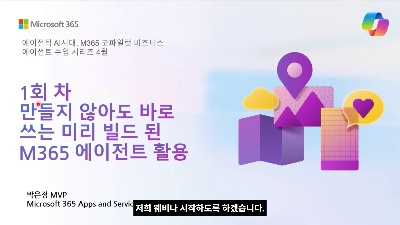
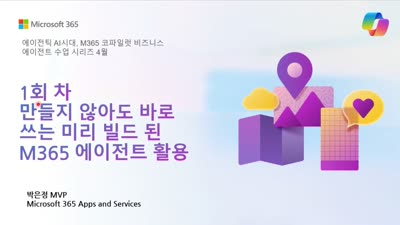
메인 수정 및 다시보기 작업 완료

diff --git a/watchagain.html b/watchagain.html
@@ -605,7 +605,7 @@
             </div>
           </div>
           <div class="p-4">
-            <h3 class="font-bold text-on-surface mb-2">1회차 만들지 않아도 바로 쓰는 미리 빌드된 M365 에이전트 활용</h3>
+            <h3 class="font-bold text-on-surface mb-2">만들지 않아도 바로 쓰는 미리 빌드된 M365 에이전트 활용</h3>
             <p class="text-sm text-on-surface-variant mb-3">4월 8일 (수) 4시~5시</p>
           </div>
         </a>
@@ -636,10 +636,10 @@
           </div>
         </a>
         <!-- SPF Video 4 -->
-        <div class="bg-white rounded-lg overflow-hidden shadow-sm hover:shadow-md transition-all border border-outline-variant/10">
+        <a href="https://megazonecloudwebinar.blob.core.windows.net/spfwebinar/SPF%20%EC%9B%A8%EB%B9%84%EB%82%98%204%ED%9A%8C%EC%B0%A8%20%5B%EB%A9%94%EA%B0%80%EC%A1%B4%ED%81%B4%EB%9D%BC%EC%9A%B0%EB%93%9C%5D%20%EC%97%90%EC%9D%B4%EC%A0%84%ED%8B%B1%20AI%EC%8B%9C%EB%8C%80%2C%20M365%20%EC%BD%94%ED%8C%8C%EC%9D%BC%EB%9F%BF%20%EB%B9%84%EC%A6%88%EB%8B%88%EC%8A%A4%20%EC%97%90%EC%9D%B4%EC%A0%84%ED%8A%B8%20%EC%88%98%EC%97%85%20%EC%8B%9C%EB%A6%AC%EC%A6%88%204%EC%9B%94%204%ED%9A%8C%EC%B0%A8-20260429_065408UTC-Meeting%20Recording.mp4?sp=r&st=2026-04-30T00:31:50Z&se=2027-04-30T08:46:50Z&spr=https&sv=2025-11-05&sr=b&sig=KkBN6iddyWgeSE4L0xZP4xB195c0bzDciTcui0U7k0s%3D" target="_blank" rel="noopener noreferrer" class="bg-white rounded-lg overflow-hidden shadow-sm hover:shadow-md transition-all border border-outline-variant/10 block group">
           <div class="aspect-video bg-slate-100 flex items-center justify-center relative overflow-hidden bg-gradient-to-br from-primary/5 to-primary/10">
-            <img src="https://via.placeholder.com/400x225?text=SPF+Webinar" alt="SPF Webinar" class="w-full h-full object-cover"/>
-            <div class="absolute inset-0 bg-black/30 transition-colors flex items-center justify-center">
+            <img src="spf_webinar_4_thumb.jpg" alt="SPF 웨비나 4회차" class="w-full h-full object-cover group-hover:scale-105 transition-transform duration-300" onerror="this.src='https://via.placeholder.com/400x225?text=SPF+Webinar+4'"/>
+            <div class="absolute inset-0 bg-black/20 group-hover:bg-black/30 transition-colors flex items-center justify-center">
               <span class="material-symbols-outlined text-white text-5xl">play_circle</span>
             </div>
           </div>
@@ -647,7 +647,7 @@
             <h3 class="font-bold text-on-surface mb-2">판단·정리·보고를 대신하는 에이전트 활용</h3>
             <p class="text-sm text-on-surface-variant mb-3">4월 29일 (수) 4시~5시</p>
           </div>
-        </div>
+        </a>
         <!-- SPF Video 5 -->
         <div class="bg-white rounded-lg overflow-hidden shadow-sm hover:shadow-md transition-all border border-outline-variant/10">
           <div class="aspect-video bg-slate-100 flex items-center justify-center relative overflow-hidden bg-gradient-to-br from-primary/5 to-primary/10">
@@ -688,45 +688,57 @@
           </div>
         </a>
         <!-- Power Platform Video 2 -->
-        <div class="bg-white rounded-lg overflow-hidden shadow-sm hover:shadow-md transition-all border border-outline-variant/10">
-          <div class="aspect-video bg-slate-100 flex items-center justify-center">
-            <img src="https://via.placeholder.com/400x225?text=Power+Platform" alt="Power Platform" class="w-full h-full object-cover"/>
+        <a href="https://megazonecloudwebinar.blob.core.windows.net/powerplatformwebinar/%ED%8C%8C%EC%9B%8C%ED%94%8C%EB%9E%AB%ED%8F%BC%20%EC%9B%A8%EB%B9%84%EB%82%98%202%EC%A3%BC%EC%B0%A8%20%5B%EB%A9%94%EA%B0%80%EC%A1%B4%ED%81%B4%EB%9D%BC%EC%9A%B0%EB%93%9C%5D%20%EC%97%90%EC%9D%B4%EC%A0%84%ED%8B%B1%20AI%EC%8B%9C%EB%8C%80%2C%20M365%20%ED%8C%8C%EC%9B%8C%ED%94%8C%EB%9E%AB%ED%8F%BC%EC%9C%BC%EB%A1%9C%20%ED%82%A5%EC%9D%84%20%EB%8D%94%ED%95%9C%EB%8B%A4!%20%ED%8C%8C%EC%9B%8C%ED%94%8C%EB%9E%AB%ED%8F%BC%20%EB%A7%88%EC%8A%A4%ED%84%B0%20%EC%9B%A8%EB%B9%84%EB%82%98%202%EC%A3%BC%EC%B0%A8-20260325_054706UTC-Meeting%20Recording.mp4?sp=r&st=2026-04-29T23:43:17Z&se=2027-04-30T07:58:17Z&spr=https&sv=2024-11-04&sr=b&sig=8%2F9vb6JO8lLmbgha1L4B5eJGbkKTLp7unIWUs4hC%2Fnw%3D" target="_blank" rel="noopener noreferrer" class="bg-white rounded-lg overflow-hidden shadow-sm hover:shadow-md transition-all border border-outline-variant/10 block group">
+          <div class="aspect-video bg-slate-100 flex items-center justify-center relative overflow-hidden bg-gradient-to-br from-primary/5 to-primary/10">
+            <img src="powerplatform_2_thumb.jpg" alt="Power Platform Webinar 2" class="w-full h-full object-cover group-hover:scale-105 transition-transform duration-300" onerror="this.src='https://via.placeholder.com/400x225?text=Power+Platform+2'"/>
+            <div class="absolute inset-0 bg-black/20 group-hover:bg-black/30 transition-colors flex items-center justify-center">
+              <span class="material-symbols-outlined text-white text-5xl">play_circle</span>
+            </div>
           </div>
           <div class="p-4">
             <h3 class="font-bold text-on-surface mb-2">Copilot Studio — 멀티 에이전트 구성</h3>
             <p class="text-sm text-on-surface-variant mb-3">3월 25일 (수) 오후 3시~4시</p>
           </div>
-        </div>
+        </a>
         <!-- Power Platform Video 3 -->
-        <div class="bg-white rounded-lg overflow-hidden shadow-sm hover:shadow-md transition-all border border-outline-variant/10">
-          <div class="aspect-video bg-slate-100 flex items-center justify-center">
-            <img src="https://via.placeholder.com/400x225?text=Power+Platform" alt="Power Platform" class="w-full h-full object-cover"/>
+        <a href="https://megazonecloudwebinar.blob.core.windows.net/powerplatformwebinar/%ED%8C%8C%EC%9B%8C%ED%94%8C%EB%9E%AB%ED%8F%BC%20%EC%9B%A8%EB%B9%84%EB%82%98%203%EC%A3%BC%EC%B0%A8%20%5B%EB%A9%94%EA%B0%80%EC%A1%B4%ED%81%B4%EB%9D%BC%EC%9A%B0%EB%93%9C%5D%20%EC%97%90%EC%9D%B4%EC%A0%84%ED%8B%B1%20AI%EC%8B%9C%EB%8C%80%2C%20M365%20%ED%8C%8C%EC%9B%8C%ED%94%8C%EB%9E%AB%ED%8F%BC%EC%9C%BC%EB%A1%9C%20%ED%82%A5%EC%9D%84%20%EB%8D%94%ED%95%9C%EB%8B%A4!%20%ED%8C%8C%EC%9B%8C%ED%94%8C%EB%9E%AB%ED%8F%BC%20%EB%A7%88%EC%8A%A4%ED%84%B0%20%EC%9B%A8%EB%B9%84%EB%82%98%203%EC%A3%BC%EC%B0%A8-20260401_043847UTC-Meeting%20Recording.mp4?sp=r&st=2026-04-29T23:51:15Z&se=2027-04-30T08:06:15Z&spr=https&sv=2024-11-04&sr=b&sig=0c%2FgE%2BaPjB2mSTSKzHyqk6LZ1XnyjI%2FekfwrJg3pOB8%3D" target="_blank" rel="noopener noreferrer" class="bg-white rounded-lg overflow-hidden shadow-sm hover:shadow-md transition-all border border-outline-variant/10 block group">
+          <div class="aspect-video bg-slate-100 flex items-center justify-center relative overflow-hidden bg-gradient-to-br from-primary/5 to-primary/10">
+            <img src="powerplatform_3_thumb.jpg" alt="Power Platform Webinar 3" class="w-full h-full object-cover group-hover:scale-105 transition-transform duration-300" onerror="this.src='https://via.placeholder.com/400x225?text=Power+Platform+3'"/>
+            <div class="absolute inset-0 bg-black/20 group-hover:bg-black/30 transition-colors flex items-center justify-center">
+              <span class="material-symbols-outlined text-white text-5xl">play_circle</span>
+            </div>
           </div>
           <div class="p-4">
             <h3 class="font-bold text-on-surface mb-2">Power BI — MCP 서버로 AI 대시보드 만들기</h3>
             <p class="text-sm text-on-surface-variant mb-3">4월 1일 (수) 오후 2시~3시</p>
           </div>
-        </div>
+        </a>
         <!-- Power Platform Video 4 -->
-        <div class="bg-white rounded-lg overflow-hidden shadow-sm hover:shadow-md transition-all border border-outline-variant/10">
-          <div class="aspect-video bg-slate-100 flex items-center justify-center">
-            <img src="https://via.placeholder.com/400x225?text=Power+Platform" alt="Power Platform" class="w-full h-full object-cover"/>
+        <a href="https://megazonecloudwebinar.blob.core.windows.net/powerplatformwebinar/%ED%8C%8C%EC%9B%8C%ED%94%8C%EB%9E%AB%ED%8F%BC%20%EC%9B%A8%EB%B9%84%EB%82%98%204%EC%A3%BC%EC%B0%A8%20%5B%EB%A9%94%EA%B0%80%EC%A1%B4%ED%81%B4%EB%9D%BC%EC%9A%B0%EB%93%9C%5D%20%EC%97%90%EC%9D%B4%EC%A0%84%ED%8B%B1%20AI%EC%8B%9C%EB%8C%80%2C%20M365%20%ED%8C%8C%EC%9B%8C%ED%94%8C%EB%9E%AB%ED%8F%BC%EC%9C%BC%EB%A1%9C%20%ED%82%A5%EC%9D%84%20%EB%8D%94%ED%95%9C%EB%8B%A4!%20%ED%8C%8C%EC%9B%8C%ED%94%8C%EB%9E%AB%ED%8F%BC%20%EB%A7%88%EC%8A%A4%ED%84%B0%20%EC%9B%A8%EB%B9%84%EB%82%98%204%EC%A3%BC%EC%B0%A8-20260408_043223UTC-Meeting%20Recording%201.mp4?sp=r&st=2026-04-29T23:52:54Z&se=2027-04-30T08:07:54Z&spr=https&sv=2024-11-04&sr=b&sig=rTXTEsSLHxath%2BpWpqud8WBceK6yJjPRWC9ujypDSC8%3D" target="_blank" rel="noopener noreferrer" class="bg-white rounded-lg overflow-hidden shadow-sm hover:shadow-md transition-all border border-outline-variant/10 block group">
+          <div class="aspect-video bg-slate-100 flex items-center justify-center relative overflow-hidden bg-gradient-to-br from-primary/5 to-primary/10">
+            <img src="powerplatform_4_thumb.jpg" alt="Power Platform Webinar 4" class="w-full h-full object-cover group-hover:scale-105 transition-transform duration-300" onerror="this.src='https://via.placeholder.com/400x225?text=Power+Platform+4'"/>
+            <div class="absolute inset-0 bg-black/20 group-hover:bg-black/30 transition-colors flex items-center justify-center">
+              <span class="material-symbols-outlined text-white text-5xl">play_circle</span>
+            </div>
           </div>
           <div class="p-4">
             <h3 class="font-bold text-on-surface mb-2">Power Apps — 앱 만드는 4가지 방법</h3>
             <p class="text-sm text-on-surface-variant mb-3">4월 8일 (수) 오후 2시~3시</p>
           </div>
-        </div>
+        </a>
         <!-- Power Platform Video 5 -->
-        <div class="bg-white rounded-lg overflow-hidden shadow-sm hover:shadow-md transition-all border border-outline-variant/10">
-          <div class="aspect-video bg-slate-100 flex items-center justify-center">
-            <img src="https://via.placeholder.com/400x225?text=Power+Platform" alt="Power Platform" class="w-full h-full object-cover"/>
+        <a href="https://megazonecloudwebinar.blob.core.windows.net/powerplatformwebinar/%ED%8C%8C%EC%9B%8C%ED%94%8C%EB%9E%AB%ED%8F%BC%20%EC%9B%A8%EB%B9%84%EB%82%98%205%EC%A3%BC%EC%B0%A8%20%5B%EB%A9%94%EA%B0%80%EC%A1%B4%ED%81%B4%EB%9D%BC%EC%9A%B0%EB%93%9C%5D%20%EC%97%90%EC%9D%B4%EC%A0%84%ED%8B%B1%20AI%EC%8B%9C%EB%8C%80%2C%20M365%20%ED%8C%8C%EC%9B%8C%ED%94%8C%EB%9E%AB%ED%8F%BC%EC%9C%BC%EB%A1%9C%20%ED%82%A5%EC%9D%84%20%EB%8D%94%ED%95%9C%EB%8B%A4!%20%ED%8C%8C%EC%9B%8C%ED%94%8C%EB%9E%AB%ED%8F%BC%20%EB%A7%88%EC%8A%A4%ED%84%B0%20%EC%9B%A8%EB%B9%84%EB%82%98%205%EC%A3%BC%EC%B0%A8-20260415_045536UTC-Meeting%20Recording%201.mp4?sp=r&st=2026-04-29T23:55:26Z&se=2027-04-30T08:10:26Z&spr=https&sv=2024-11-04&sr=b&sig=dqmavZbnNhgB%2FjScEZI5AEzVVjB3JGZd%2F1aZAP4CaV8%3D" target="_blank" rel="noopener noreferrer" class="bg-white rounded-lg overflow-hidden shadow-sm hover:shadow-md transition-all border border-outline-variant/10 block group">
+          <div class="aspect-video bg-slate-100 flex items-center justify-center relative overflow-hidden bg-gradient-to-br from-primary/5 to-primary/10">
+            <img src="powerplatform_5_thumb.jpg" alt="Power Platform Webinar 5" class="w-full h-full object-cover group-hover:scale-105 transition-transform duration-300" onerror="this.src='https://via.placeholder.com/400x225?text=Power+Platform+5'"/>
+            <div class="absolute inset-0 bg-black/20 group-hover:bg-black/30 transition-colors flex items-center justify-center">
+              <span class="material-symbols-outlined text-white text-5xl">play_circle</span>
+            </div>
           </div>
           <div class="p-4">
             <h3 class="font-bold text-on-surface mb-2">Power Automate — 입금결의서 자동 생성</h3>
             <p class="text-sm text-on-surface-variant mb-3">4월 15일 (수) 오후 2시~3시</p>
           </div>
-        </div>
+        </a>
       </div>
     </div>
   </section>
@@ -741,65 +753,83 @@
       <!-- Copilot 비디오 카드 -->
       <div class="grid grid-cols-1 md:grid-cols-2 lg:grid-cols-3 gap-6">
         <!-- Copilot Video 1 -->
-        <div class="bg-white rounded-lg overflow-hidden shadow-sm hover:shadow-md transition-all border border-outline-variant/10">
-          <div class="aspect-video bg-slate-100 flex items-center justify-center">
-            <img src="https://via.placeholder.com/400x225?text=Copilot" alt="Copilot Webinar" class="w-full h-full object-cover"/>
+        <a href="https://megazonecloudwebinar.blob.core.windows.net/copilotwebinar/%EC%BD%94%ED%8C%8C%EC%9D%BC%EB%9F%BF%20%EC%9B%A8%EB%B9%84%EB%82%98%201%ED%9A%8C%EC%B0%A8%20%5B%EB%A9%94%EA%B0%80%EC%A1%B4%ED%81%B4%EB%9D%BC%EC%9A%B0%EB%93%9C%5D%20%EC%97%90%EC%9D%B4%EC%A0%84%ED%8B%B1%20AI%EC%8B%9C%EB%8C%80%2C%20M365%20%EC%BD%94%ED%8C%8C%EC%9D%BC%EB%9F%BF%20%EB%B9%84%EC%A6%88%EB%8B%88%EC%8A%A4%20%EC%97%90%EC%9D%B4%EC%A0%84%ED%8A%B8%20%EB%A7%8C%EB%93%A4%EA%B8%B0%203%EC%9B%94%20%EC%B2%AB%EB%B2%88%EC%A7%B8%20%EC%88%98%EC%97%85-20260309_070113UTC-Meeting%20Recording%201.mp4?sp=r&st=2026-04-29T23:59:49Z&se=2027-04-30T08:14:49Z&spr=https&sv=2024-11-04&sr=b&sig=0Me%2FvD6gmGZPxz%2BVG1Kat2xSPMYVX79uMTlYFzKs3w0%3D" target="_blank" rel="noopener noreferrer" class="bg-white rounded-lg overflow-hidden shadow-sm hover:shadow-md transition-all border border-outline-variant/10 block group">
+          <div class="aspect-video bg-slate-100 flex items-center justify-center relative overflow-hidden bg-gradient-to-br from-primary/5 to-primary/10">
+            <img src="copilot_1_thumb.jpg" alt="Copilot Webinar 1" class="w-full h-full object-cover group-hover:scale-105 transition-transform duration-300" onerror="this.src='https://via.placeholder.com/400x225?text=Copilot+1'"/>
+            <div class="absolute inset-0 bg-black/20 group-hover:bg-black/30 transition-colors flex items-center justify-center">
+              <span class="material-symbols-outlined text-white text-5xl">play_circle</span>
+            </div>
           </div>
           <div class="p-4">
             <h3 class="font-bold text-on-surface mb-2">Copilot Chat, 그냥 질문하는 도구가 아닙니다</h3>
             <p class="text-sm text-on-surface-variant mb-3">3월 9일 (월) 오후 4시~5시</p>
           </div>
-        </div>
+        </a>
         <!-- Copilot Video 2 -->
-        <div class="bg-white rounded-lg overflow-hidden shadow-sm hover:shadow-md transition-all border border-outline-variant/10">
-          <div class="aspect-video bg-slate-100 flex items-center justify-center">
-            <img src="https://via.placeholder.com/400x225?text=Copilot" alt="Copilot Webinar" class="w-full h-full object-cover"/>
+        <a href="https://megazonecloudwebinar.blob.core.windows.net/copilotwebinar/%EC%BD%94%ED%8C%8C%EC%9D%BC%EB%9F%BF%20%EC%9B%A8%EB%B9%84%EB%82%98%202%ED%9A%8C%EC%B0%A8%20%5B%EB%A9%94%EA%B0%80%EC%A1%B4%ED%81%B4%EB%9D%BC%EC%9A%B0%EB%93%9C%5D%20%EC%97%90%EC%9D%B4%EC%A0%84%ED%8B%B1%20AI%EC%8B%9C%EB%8C%80%2C%20M365%20%EC%BD%94%ED%8C%8C%EC%9D%BC%EB%9F%BF%20%EB%B9%84%EC%A6%88%EB%8B%88%EC%8A%A4%20%EC%97%90%EC%9D%B4%EC%A0%84%ED%8A%B8%20%EC%88%98%EC%97%85%20%EC%8B%9C%EB%A6%AC%EC%A6%88%202%EB%B2%88%EC%A7%B8-20260311_070002UTC-Meeting%20Recording%201.mp4?sp=r&st=2026-04-30T00:00:39Z&se=2027-04-30T08:15:39Z&spr=https&sv=2024-11-04&sr=b&sig=UfzXOBHR0Pw%2FYyUk63KVPIfHuAmaDngfQCpLlWmc6v4%3D" target="_blank" rel="noopener noreferrer" class="bg-white rounded-lg overflow-hidden shadow-sm hover:shadow-md transition-all border border-outline-variant/10 block group">
+          <div class="aspect-video bg-slate-100 flex items-center justify-center relative overflow-hidden bg-gradient-to-br from-primary/5 to-primary/10">
+            <img src="copilot_2_thumb.jpg" alt="Copilot Webinar 2" class="w-full h-full object-cover group-hover:scale-105 transition-transform duration-300" onerror="this.src='https://via.placeholder.com/400x225?text=Copilot+2'"/>
+            <div class="absolute inset-0 bg-black/20 group-hover:bg-black/30 transition-colors flex items-center justify-center">
+              <span class="material-symbols-outlined text-white text-5xl">play_circle</span>
+            </div>
           </div>
           <div class="p-4">
             <h3 class="font-bold text-on-surface mb-2">프롬프트 하나로 만드는 나만의 에이전트</h3>
             <p class="text-sm text-on-surface-variant mb-3">3월 11일 (수) 오후 4시~5시</p>
           </div>
-        </div>
+        </a>
         <!-- Copilot Video 3 -->
-        <div class="bg-white rounded-lg overflow-hidden shadow-sm hover:shadow-md transition-all border border-outline-variant/10">
-          <div class="aspect-video bg-slate-100 flex items-center justify-center">
-            <img src="https://via.placeholder.com/400x225?text=Copilot" alt="Copilot Webinar" class="w-full h-full object-cover"/>
+        <a href="https://megazonecloudwebinar.blob.core.windows.net/copilotwebinar/%EC%BD%94%ED%8C%8C%EC%9D%BC%EB%9F%BF%20%EC%9B%A8%EB%B9%84%EB%82%98%203%ED%9A%8C%EC%B0%A8%20%5B%EB%A9%94%EA%B0%80%EC%A1%B4%ED%81%B4%EB%9D%BC%EC%9A%B0%EB%93%9C%5D%20%EC%97%90%EC%9D%B4%EC%A0%84%ED%8B%B1%20AI%EC%8B%9C%EB%8C%80%2C%20M365%20%EC%BD%94%ED%8C%8C%EC%9D%BC%EB%9F%BF%20%EB%B9%84%EC%A6%88%EB%8B%88%EC%8A%A4%20%EC%97%90%EC%9D%B4%EC%A0%84%ED%8A%B8%20%EC%88%98%EC%97%85%20%EC%8B%9C%EB%A6%AC%EC%A6%88%203%EB%B2%88%EC%A7%B8-20260313_065653UTC-Meeting%20Recording%201.mp4?sp=r&st=2026-04-30T00:03:35Z&se=2027-04-30T08:18:35Z&spr=https&sv=2024-11-04&sr=b&sig=GOTznl4BDTkAWEw7isb%2BSWVyHPvbAMu5AQ%2FV1b%2BPxd0%3D" target="_blank" rel="noopener noreferrer" class="bg-white rounded-lg overflow-hidden shadow-sm hover:shadow-md transition-all border border-outline-variant/10 block group">
+          <div class="aspect-video bg-slate-100 flex items-center justify-center relative overflow-hidden bg-gradient-to-br from-primary/5 to-primary/10">
+            <img src="copilot_3_thumb.jpg" alt="Copilot Webinar 3" class="w-full h-full object-cover group-hover:scale-105 transition-transform duration-300" onerror="this.src='https://via.placeholder.com/400x225?text=Copilot+3'"/>
+            <div class="absolute inset-0 bg-black/20 group-hover:bg-black/30 transition-colors flex items-center justify-center">
+              <span class="material-symbols-outlined text-white text-5xl">play_circle</span>
+            </div>
           </div>
           <div class="p-4">
             <h3 class="font-bold text-on-surface mb-2">문서를 아는 에이전트 만들기</h3>
             <p class="text-sm text-on-surface-variant mb-3">3월 13일 (금) 오후 4시~5시</p>
           </div>
-        </div>
+        </a>
         <!-- Copilot Video 4 -->
-        <div class="bg-white rounded-lg overflow-hidden shadow-sm hover:shadow-md transition-all border border-outline-variant/10">
-          <div class="aspect-video bg-slate-100 flex items-center justify-center">
-            <img src="https://via.placeholder.com/400x225?text=Copilot" alt="Copilot Webinar" class="w-full h-full object-cover"/>
+        <a href="https://megazonecloudwebinar.blob.core.windows.net/copilotwebinar/%EC%BD%94%ED%8C%8C%EC%9D%BC%EB%9F%BF%20%EC%9B%A8%EB%B9%84%EB%82%98%204%ED%9A%8C%EC%B0%A8%20%5B%EB%A9%94%EA%B0%80%EC%A1%B4%ED%81%B4%EB%9D%BC%EC%9A%B0%EB%93%9C%5D%20%EC%97%90%EC%9D%B4%EC%A0%84%ED%8B%B1%20AI%EC%8B%9C%EB%8C%80%2C%20M365%20%EC%BD%94%ED%8C%8C%EC%9D%BC%EB%9F%BF%20%EB%B9%84%EC%A6%88%EB%8B%88%EC%8A%A4%20%EC%97%90%EC%9D%B4%EC%A0%84%ED%8A%B8%20%EC%88%98%EC%97%85%20%EC%8B%9C%EB%A6%AC%EC%A6%88%204%EB%B2%88%EC%A7%B8-20260316_002811UTC-Meeting%20Recording%201.mp4?sp=r&st=2026-04-30T00:04:49Z&se=2027-04-30T08:19:49Z&spr=https&sv=2024-11-04&sr=b&sig=7HXEEL2XeFw%2BMv0PzYi7iZUiDMh4xhJbUKFlSPmzkGM%3D" target="_blank" rel="noopener noreferrer" class="bg-white rounded-lg overflow-hidden shadow-sm hover:shadow-md transition-all border border-outline-variant/10 block group">
+          <div class="aspect-video bg-slate-100 flex items-center justify-center relative overflow-hidden bg-gradient-to-br from-primary/5 to-primary/10">
+            <img src="copilot_4_thumb.jpg" alt="Copilot Webinar 4" class="w-full h-full object-cover group-hover:scale-105 transition-transform duration-300" onerror="this.src='https://via.placeholder.com/400x225?text=Copilot+4'"/>
+            <div class="absolute inset-0 bg-black/20 group-hover:bg-black/30 transition-colors flex items-center justify-center">
+              <span class="material-symbols-outlined text-white text-5xl">play_circle</span>
+            </div>
           </div>
           <div class="p-4">
             <h3 class="font-bold text-on-surface mb-2">직무별 Copilot 에이전트 시나리오</h3>
             <p class="text-sm text-on-surface-variant mb-3">3월 16일 (월) 오전 9시30분~10시30분</p>
           </div>
-        </div>
+        </a>
         <!-- Copilot Video 5 -->
-        <div class="bg-white rounded-lg overflow-hidden shadow-sm hover:shadow-md transition-all border border-outline-variant/10">
-          <div class="aspect-video bg-slate-100 flex items-center justify-center">
-            <img src="https://via.placeholder.com/400x225?text=Copilot" alt="Copilot Webinar" class="w-full h-full object-cover"/>
+        <a href="https://megazonecloudwebinar.blob.core.windows.net/copilotwebinar/%EC%BD%94%ED%8C%8C%EC%9D%BC%EB%9F%BF%20%EC%9B%A8%EB%B9%84%EB%82%98%205%ED%9A%8C%EC%B0%A8%20%5B%EB%A9%94%EA%B0%80%EC%A1%B4%ED%81%B4%EB%9D%BC%EC%9A%B0%EB%93%9C%5D%20%EC%97%90%EC%9D%B4%EC%A0%84%ED%8B%B1%20AI%EC%8B%9C%EB%8C%80%2C%20M365%20%EC%BD%94%ED%8C%8C%EC%9D%BC%EB%9F%BF%20%EB%B9%84%EC%A6%88%EB%8B%88%EC%8A%A4%20%EC%97%90%EC%9D%B4%EC%A0%84%ED%8A%B8%20%EC%88%98%EC%97%85%20%EC%8B%9C%EB%A6%AC%EC%A6%88%205%EB%B2%88%EC%A7%B8-20260323_000905UTC-Meeting%20Recording%201.mp4?sp=r&st=2026-04-30T00:05:33Z&se=2027-04-30T08:20:33Z&spr=https&sv=2024-11-04&sr=b&sig=WEBFQpywL6TAZiE8sNtC6YiRNtune6wLfypcCoM4RlE%3D" target="_blank" rel="noopener noreferrer" class="bg-white rounded-lg overflow-hidden shadow-sm hover:shadow-md transition-all border border-outline-variant/10 block group">
+          <div class="aspect-video bg-slate-100 flex items-center justify-center relative overflow-hidden bg-gradient-to-br from-primary/5 to-primary/10">
+            <img src="copilot_5_thumb.jpg" alt="Copilot Webinar 5" class="w-full h-full object-cover group-hover:scale-105 transition-transform duration-300" onerror="this.src='https://via.placeholder.com/400x225?text=Copilot+5'"/>
+            <div class="absolute inset-0 bg-black/20 group-hover:bg-black/30 transition-colors flex items-center justify-center">
+              <span class="material-symbols-outlined text-white text-5xl">play_circle</span>
+            </div>
           </div>
           <div class="p-4">
             <h3 class="font-bold text-on-surface mb-2">오늘부터 바로 쓰는 Copilot 에이전트용</h3>
             <p class="text-sm text-on-surface-variant mb-3">3월 23일 (월) 오전 9시30분~10시30분</p>
           </div>
-        </div>
+        </a>
         <!-- Copilot Video 6 -->
-        <div class="bg-white rounded-lg overflow-hidden shadow-sm hover:shadow-md transition-all border border-outline-variant/10">
-          <div class="aspect-video bg-slate-100 flex items-center justify-center">
-            <img src="https://via.placeholder.com/400x225?text=Copilot" alt="Copilot Webinar" class="w-full h-full object-cover"/>
+        <a href="https://megazonecloudwebinar.blob.core.windows.net/copilotwebinar/%EC%BD%94%ED%8C%8C%EC%9D%BC%EB%9F%BF%20%EC%9B%A8%EB%B9%84%EB%82%98%206%ED%9A%8C%EC%B0%A8%20%5B%EB%A9%94%EA%B0%80%EC%A1%B4%ED%81%B4%EB%9D%BC%EC%9A%B0%EB%93%9C%5D%20%EC%97%90%EC%9D%B4%EC%A0%84%ED%8B%B1%20AI%EC%8B%9C%EB%8C%80%2C%20M365%20%EC%BD%94%ED%8C%8C%EC%9D%BC%EB%9F%BF%20%EB%B9%84%EC%A6%88%EB%8B%88%EC%8A%A4%20%EC%97%90%EC%9D%B4%EC%A0%84%ED%8A%B8%20%EC%88%98%EC%97%85%20%EC%8B%9C%EB%A6%AC%EC%A6%88%203%EC%9B%94%20%EB%A7%88%EC%A7%80%EB%A7%89%20%EC%88%98%EC%97%85%206%EB%B2%88%EC%A7%B8-20260330_001025UTC-Meeting%20Recording%20(1).mp4?sp=r&st=2026-04-30T00:06:22Z&se=2027-04-30T08:21:22Z&spr=https&sv=2024-11-04&sr=b&sig=2pManLiYcmMylDNTnYz56k90Ar%2FjBjt%2BpB%2BVTv6Z4U4%3D" target="_blank" rel="noopener noreferrer" class="bg-white rounded-lg overflow-hidden shadow-sm hover:shadow-md transition-all border border-outline-variant/10 block group">
+          <div class="aspect-video bg-slate-100 flex items-center justify-center relative overflow-hidden bg-gradient-to-br from-primary/5 to-primary/10">
+            <img src="copilot_6_thumb.jpg" alt="Copilot Webinar 6" class="w-full h-full object-cover group-hover:scale-105 transition-transform duration-300" onerror="this.src='https://via.placeholder.com/400x225?text=Copilot+6'"/>
+            <div class="absolute inset-0 bg-black/20 group-hover:bg-black/30 transition-colors flex items-center justify-center">
+              <span class="material-symbols-outlined text-white text-5xl">play_circle</span>
+            </div>
           </div>
           <div class="p-4">
             <h3 class="font-bold text-on-surface mb-2">짜잔~ 유료 Copilot이 더 좋은 이유</h3>
             <p class="text-sm text-on-surface-variant mb-3">3월 30일 (월) 오전 9시30분~10시30분</p>
           </div>
-        </div>
+        </a>
       </div>
     </div>
   </section>

diff --git a/index.html b/index.html
@@ -593,7 +593,7 @@
       </div>
     </div>
     <div class="flex items-center gap-4 ml-20">
-      <a href="https://events.teams.microsoft.com/event/30505be9-f383-4af9-801c-b94404f0454c@97f42f55-f1db-4804-b1eb-08db083efd4f" target="_blank" class="gradient-primary text-white font-semibold px-6 py-2.5 rounded-full hover:opacity-90 active:scale-[0.98] transition-all font-body inline-flex items-center gap-2">
+      <a href="https://events.teams.microsoft.com/event/aabe9391-ad55-47aa-bb58-e54509639ae1@97f42f55-f1db-4804-b1eb-08db083efd4f" target="_blank" class="gradient-primary text-white font-semibold px-6 py-2.5 rounded-full hover:opacity-90 active:scale-[0.98] transition-all font-body inline-flex items-center gap-2">
         <span class="material-symbols-outlined text-base" style="font-variation-settings: 'FILL' 1;">rocket_launch</span>
         지금 등록하기
       </a>
@@ -632,7 +632,7 @@
 
       <!-- CTA -->
       <div class="flex flex-wrap gap-4 justify-center mb-8">
-        <a href="https://events.teams.microsoft.com/event/30505be9-f383-4af9-801c-b94404f0454c@97f42f55-f1db-4804-b1eb-08db083efd4f" target="_blank" class="gradient-primary text-white font-bold px-8 py-4 rounded-full text-lg ambient-shadow hover:opacity-95 transition-all font-body inline-flex items-center gap-2">
+        <a href="https://events.teams.microsoft.com/event/aabe9391-ad55-47aa-bb58-e54509639ae1@97f42f55-f1db-4804-b1eb-08db083efd4f" target="_blank" class="gradient-primary text-white font-bold px-8 py-4 rounded-full text-lg ambient-shadow hover:opacity-95 transition-all font-body inline-flex items-center gap-2">
           <span class="material-symbols-outlined" style="font-variation-settings: 'FILL' 1;">rocket_launch</span>
           곧 시작되는 이벤트 등록하기
         </a>
@@ -657,34 +657,6 @@
       </div>
 
       <div class="grid grid-cols-1 md:grid-cols-2 gap-8">
-
-        <!-- Event 4: 04.29 16:00 판단·정리·보고 에이전트 -->
-        <div class="event-card bg-surface-container-lowest rounded-[2rem] overflow-hidden border border-outline-variant/15 hover:border-primary/40 hover:shadow-2xl hover:shadow-primary/10 transition-all duration-500 flex flex-col">
-          <div class="h-1.5 gradient-primary"></div>
-          <div class="p-8 flex flex-col flex-grow">
-            <div class="inline-flex items-center gap-2 px-3 py-1 rounded-full bg-primary/10 text-primary font-bold text-xs self-start mb-4 font-body">
-              <span class="material-symbols-outlined text-sm" style="font-variation-settings: 'FILL' 1;">mic</span>
-              온라인 웨비나
-            </div>
-            <div class="text-primary font-bold text-sm mb-3 font-body flex items-center gap-2">
-              <span class="w-2 h-2 rounded-full bg-primary"></span>
-              2026.04.29 (수) 16:00-17:00
-            </div>
-            <p class="text-on-surface-variant text-sm mb-2 font-body">M365 코파일럿 파워시리즈 4월 4회차 · 5주 만에 에이전트 전문가로!</p>
-            <h3 class="font-headline text-xl font-bold text-on-surface mb-3 leading-snug flex-grow">
-              판단·정리·보고를 대신하는 에이전트 활용
-            </h3>
-            <div class="text-on-surface-variant text-sm mb-5 font-body flex items-center gap-2">
-              <span class="material-symbols-outlined text-base">description</span>
-              <a href="https://spfaif.com/m365copilotagent2.html" target="_blank" class="text-primary underline hover:opacity-80">상세내용 보러가기</a>
-            </div>
-            <div class="h-px bg-outline-variant/30 mb-5"></div>
-            <a href="https://events.teams.microsoft.com/event/30505be9-f383-4af9-801c-b94404f0454c@97f42f55-f1db-4804-b1eb-08db083efd4f" target="_blank" class="gradient-primary text-white font-bold py-3.5 rounded-xl text-center hover:opacity-95 transition-all font-body inline-flex items-center justify-center gap-2">
-              <span class="material-symbols-outlined" style="font-variation-settings: 'FILL' 1;">link</span>
-              지금 등록하기
-            </a>
-          </div>
-        </div>
 
         <!-- Event 5: 05.06 16:00 에이전트 지침 설계법 -->
         <div class="event-card bg-surface-container-lowest rounded-[2rem] overflow-hidden border border-outline-variant/15 hover:border-primary/40 hover:shadow-2xl hover:shadow-primary/10 transition-all duration-500 flex flex-col">
